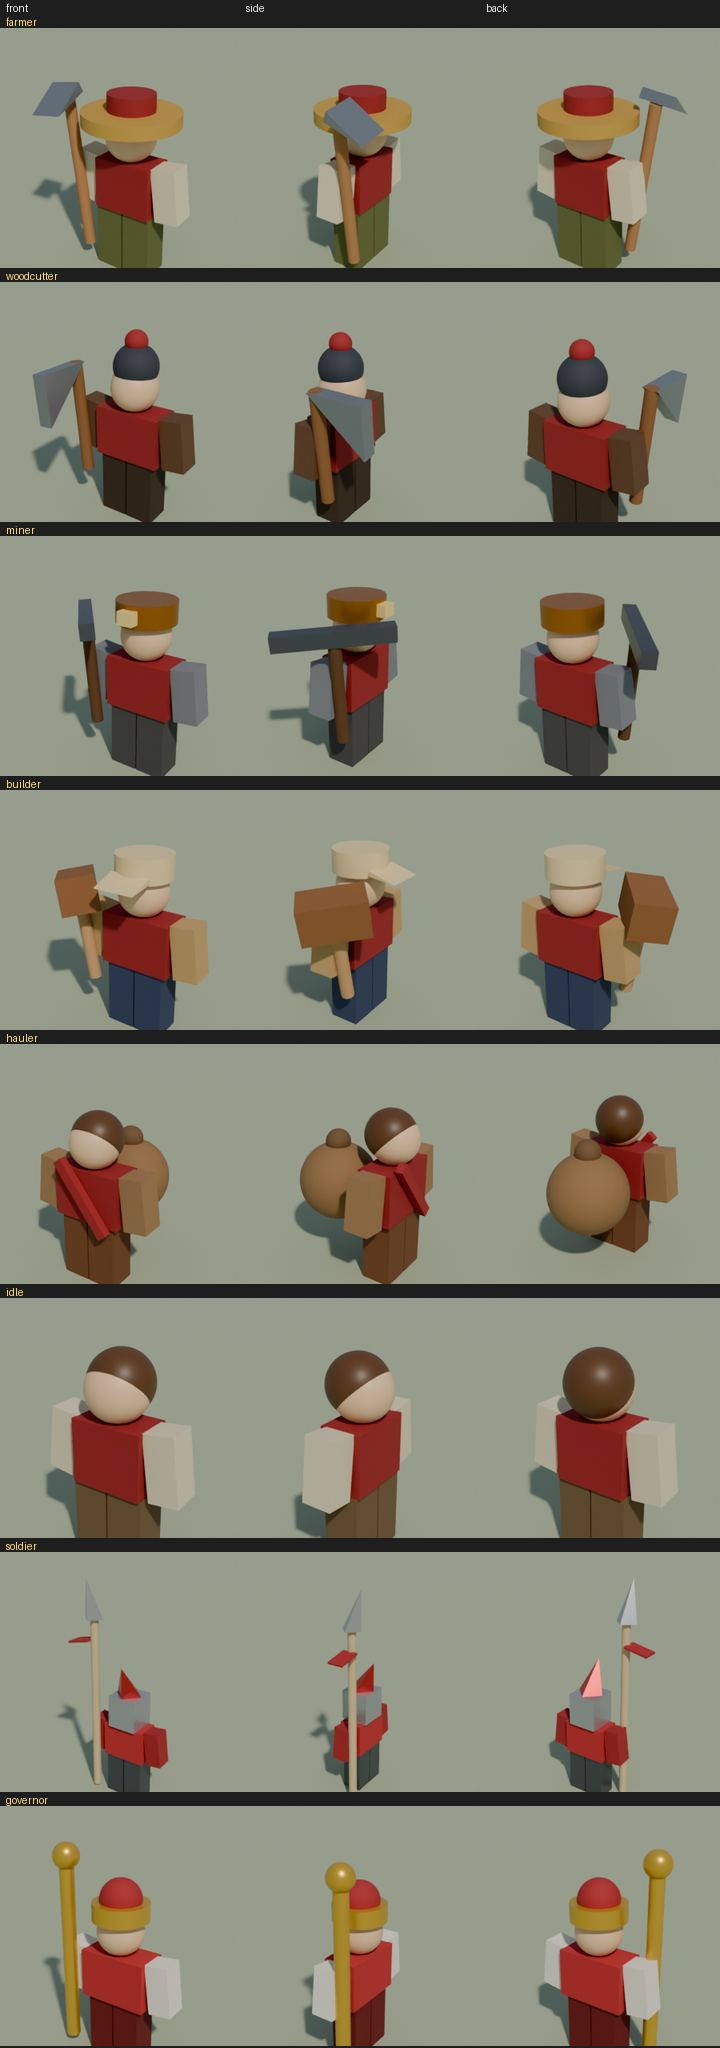
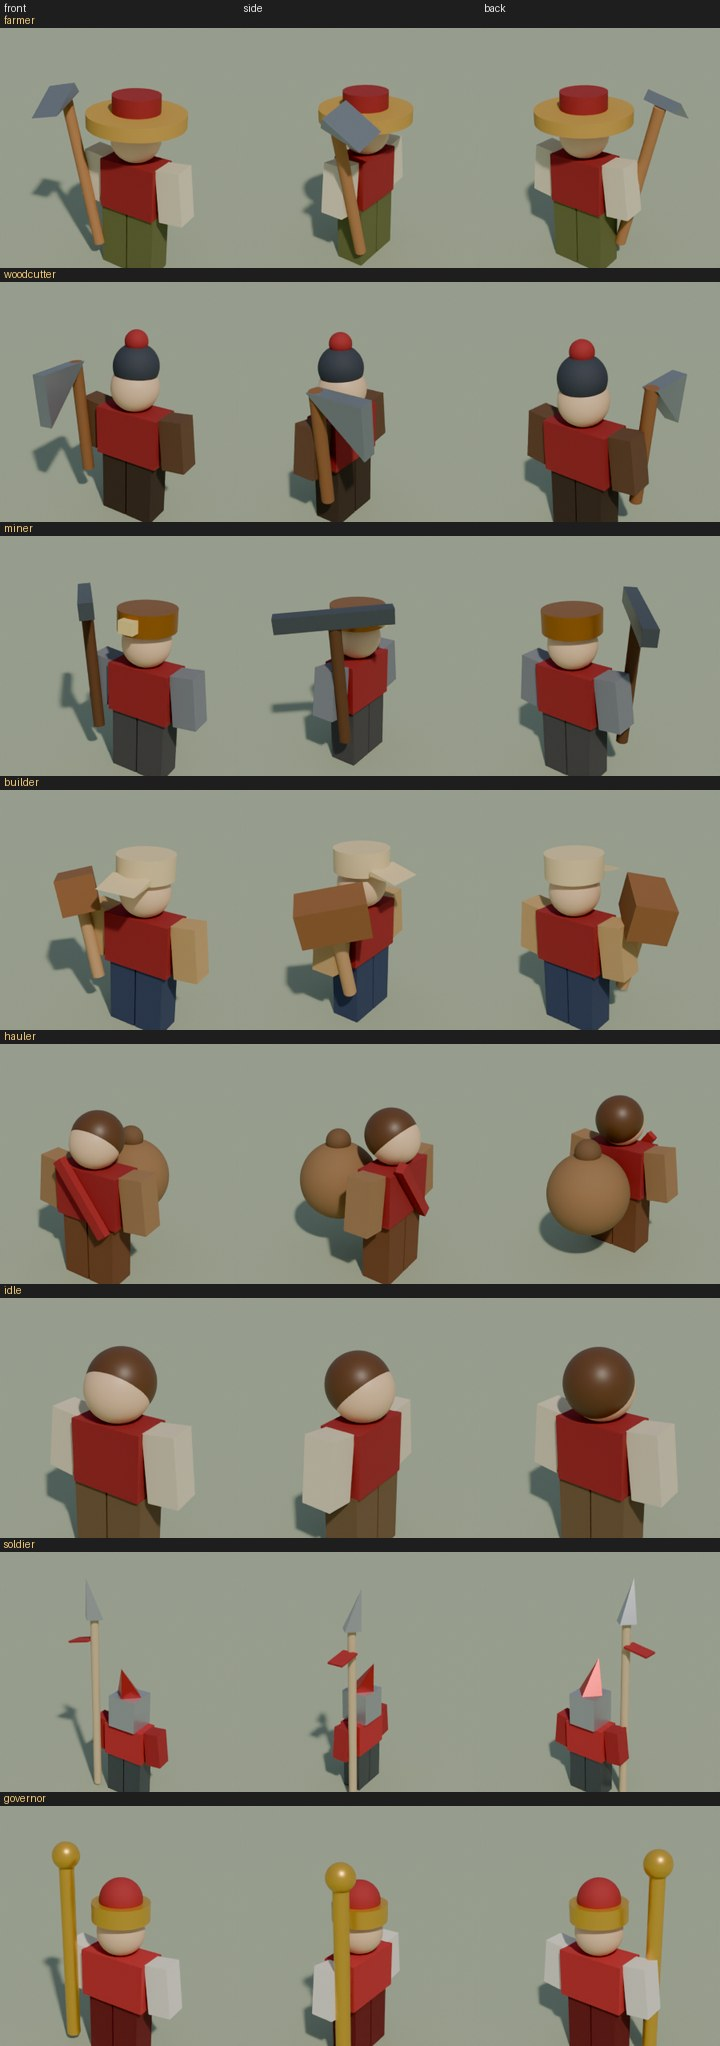
FL-0118 phase 2: tools and heads clear in every Pose action (FORGE-05/FORGE-01 findings), exact clearance spec, re-renders
Kit fix, Pose untouched (main 1d336eb merged): pick handle 4.55 with the bar 0.85 higher, mallet lean 15, hoe lean 14.
KitCharacter.spec: every Tool-welded part against the Head and every Head-welded part, all seven Pose actions
at speeds 0/6/12, three hat rolls, exact shapes at least 0.1 (bounding boxes at least 0.03); 10 mutants killed.
PoseClearance 8/8. Renders citizen_polish2_{jobs,tools,heads,poses}.jpg. Studio unverified.

Claude-Session: https://claude.ai/code/session_01QhAZKvWsRXpSKTGWcY3Eq6

diff --git a/games/game-001/art/reviews/kit-characters.md b/games/game-001/art/reviews/kit-characters.md
@@ -423,10 +423,10 @@ and `KitDetailKind` = the part's name. Nothing new on the wire: they derive from
 (each rig from the front, side and back), `_crowd.jpg` (30 citizens, 50 degrees at 170 studs), `_aerial.jpg` (4 per job, colour and grayscale).
 | Job | Tool (handle, Tool part) | Tool head (detail) | Head detail |
 |---|---|---|---|
-| farmer | 5.2 pale-wood handle | steel hoe blade, angled down | kingdom-red crown over the straw brim |
+| farmer | 5.2 pale-wood handle, leaning out 14 degrees (was 8) | steel hoe blade, angled down | kingdom-red crown over the straw brim |
 | woodcutter | 3.9 haft | bearded steel axe head | kingdom-red pompom on the beanie |
-| miner | 3.7 dark handle | 3.6 double-sided iron bar (T) | lamp on the pot |
-| builder | 3.0 pale handle | fat wooden mallet head | visor: the cream drum becomes a hard hat |
+| miner | 4.55 dark handle (was 3.7) | 3.6 double-sided iron bar (T) at the handle's top, 3.4 above the grip (was 2.55) | lamp on the pot |
+| builder | 3.0 pale handle, leaning out 15 degrees (was 12) | fat wooden mallet head | visor: the cream drum becomes a hard hat |
 | hauler | the sack (Tool) | kingdom-red strap across the chest, the sack's tied neck | none |
 | soldier | 9.0 ash shaft | pale steel spearhead, kingdom pennant | none (crest as before) |
 | governor | 6.4 gold staff | gold orb | kingdom-red velvet cap over the crown disc |
@@ -436,7 +436,7 @@ without a kingdom), governor 11, idle 7 to 9 (was 9, 9, 9, 8-9, 9, 7-9).
   and bar are gone); the builder's paper-like cap is a hard hat (drum + visor) and his hammer differs from the hauler's load; the miner has a
   lamp; the hauler has a strap and a tied sack, so the front view differs from idle; kingdom red shows on top of every working rig (crown,
   pompom, pennant, strap, velvet cap): kingdom-red pixels in the 30-citizen crowd crop 443 (phase 1b) to 461 (main 420).
-- **Rules and specs.** `KitCharacter.spec` 49 tests (45 before): parts at most 11 with at most 2 detail parts and a base rig of at most 9; every
+- **Rules and specs.** `KitCharacter.spec` 51 tests (49 at the first push, 45 before): parts at most 11 with at most 2 detail parts and a base rig of at most 9; every
   detail flagged, named, welded rigidly to the Head or the Tool, never a Motor6D, flags like the other parts; `Pose.JOINTS` and every Motor6D
   name unchanged and no joint to a detail; the exact two details per job (kind, weld target); head details above the eyes and following the
   hat's tilt; tool heads and handles clear the head sphere by 0.1 in idle, walk, work, carry, fight and flee. `KitPortrait.spec` and
@@ -478,3 +478,37 @@ crowd crop, main 420); the soldier's red crest still reads as a separate cone on
   and an idle silhouette feature are either another art pass or a different approach (tool meshes via Kit.prop ids / VS-2, per-look
   proportions). They are reported and left for FORGE-00 to schedule or accept under D-051 (no worse than main per asset, clearly better as a
   set, no visible defects, code gates pass); no further loop on this branch.
+
+### FL-0118 phase 2: tool and head clearance in every Pose action (FORGE-05 / FORGE-01 findings)
+
+Pose constants are not relaxed (FORGE-04/01's); the fix is in the Kit. Pose is main's (`1d336eb`: #154 plus #158, tool arm 55 degrees, tool
+tipped 40 back and 20 out), merged into this branch; its `tests/sim/PoseClearance.spec` (FORGE-01's exact-shape probe) passes on the new rigs
+(8 of 8; it failed before on miner walk: -0.07 against the hat).
+- **Measured with a scratch probe** (`KitCharacter.spec` now carries the same measure): every part welded to the Tool (handle, hoe blade, pick bar,
+  mallet, spearhead, strap, tie, orb ...) against the Head and every part welded to the Head (hat, lamp, visor, pompom, crown, velvet cap),
+  all seven Pose actions (idle, walk, work, carry, fight, flee, celebrate; walk, carry and flee at speeds 0, 6, 12; 24 phases a cycle), the
+  three hat rolls (look.hair 1 to 3: 0, +9, -9 degrees). Exact shapes (Block and Wedge as boxes by the separating axis, Ball and Cylinder
+  exactly), plus a second pass on bounding boxes (a Ball as its cube).
+- **Before the fix** (same measure): miner pick bar against the pot -0.19 (work), -0.14 (fight), -0.07 (walk) exact and -0.38 on the pot's bounding
+  box; against the head cube -0.05 (flee); builder mallet against the cap 0.045 to 0.058 (work); farmer hoe handle against the straw brim 0.04
+  (flee, hat rolled) and -0.17 on the disc's box. Celebrate was not a problem on main's Pose: the closest tool-to-hat pair there was 0.34
+  (bounding boxes), so FORGE-05's celebrate sinks (mallet into the head 0.111, miner pick into the lamp -0.086) did not reproduce with #158's cheer
+  merged; they were presumably measured against #154's cheer.
+- **Kit changes** (still 11 parts, `Pose.JOINTS` and the wire unchanged): the pick's handle is 4.55 long and the bar sits 0.85 higher on it, so it swings
+  over the pot instead of through it; the mallet leans out 15 degrees (was 12) and the hoe 14 (was 8). Bar size, bar yaw (40), mallet, blade,
+  lamp and visor are unchanged.
+- **After** (min over rigs, looks, actions and speeds; exact / bounding boxes): miner pick bar against the pot 0.277 / 0.053, against the head
+  0.954 / 0.370, against the lamp 0.372 / 0.372; builder mallet against the cap 0.150 / 0.142, against the head 0.197 / 0.195, against the visor
+  0.376 / 0.376; farmer hoe against the hat 0.267 / 0.042; woodcutter 0.703 / 0.598; soldier 0.556 / 0.448; governor 0.502 / 0.338; hauler (ball
+  sack, exact only) 0.138. In celebrate alone: mallet against the head 0.904, the visor 0.511, the cap 0.647; pick bar against the head 1.563, the lamp
+  0.798, the pot 0.905.
+- **Spec:** `KitCharacter.spec` (51 tests) asserts exact clearance of at least 0.1 and, for the held tools (the hauler's ball sack excepted),
+  bounding-box clearance of at least 0.03 for every tool part against every head part in all seven actions; the sack-and-tool tests now
+  include celebrate. 10 mutants (the old pick, the old mallet lean, the old hoe lean, the grip moved in, a wider pot, the sack raised, the pick bar
+  lowered, a huge orb, the lamp and the visor moved into reach) are all killed, three of them (old pick, mallet, hoe) only by the new test.
+- **Renders** (looked at, Blender previews, Studio unverified): `citizen_polish2_jobs.jpg` and `_tools.jpg` and `_heads.jpg` re-rendered after the fix;
+  `_poses.jpg` (new): miner work, celebrate and flee, builder work, celebrate and fight, farmer work and celebrate, front and side: the
+  tool is held beside the head, the cap and the pot sit clear of it, a cheer still reads. In side projection the pick bar and the mallet overlap the
+  hat and the head on screen, in space they are 0.15 or more away. From the 3/4 tool view and at 40 studs the miner's pick reads as a
+  small hammer-like T; it reads as a pick in the side, work and celebrate views. `_crowd.jpg` and `_aerial.jpg` were not re-rendered (the pick is a
+  few pixels there) and still show the earlier, lower pick bar.

diff --git a/production/tasks/FL-0118-citizen-job-silhouettes-clothing-and-tools-d-048.md b/production/tasks/FL-0118-citizen-job-silhouettes-clothing-and-tools-d-048.md
@@ -47,4 +47,5 @@ Visual: D-019 aerial and close-up renders, fresh-context reviewer PASS. Automate
 - 2026-10-15 forge-02: phase 1b after 2 author rounds and 2 fresh image-only re-scores: rig set NEEDS-WORK (soldier and governor PASS; variation 2-3, tool readability, hauler front read still below threshold). Stopped per the 2-round rule; tools, hauler strap, builder hard hat and miner lamp go to Phase 2 (D-048, own stacked branch). Status stays REVIEW (D-051).
 - 2026-10-15 forge-02: phase 2 on forge/02-blender-citizen-phase2 (stacked on phase 1b): D-048 11-part rigs, each tool a handle plus a head detail, two KitDetail parts per working rig, hauler strap and tie, builder hard hat, miner lamp, spearhead, kingdom-red crown, pompom, pennant, strap and velvet cap; specs and 18 killed mutants; renders `citizen_polish2_*.jpg`. Status stays REVIEW (D-051).
 - 2026-10-15 forge-02: phase 2 fresh image-only D-019 re-score (one round): rig set NEEDS-WORK. Soldier and governor PASS; farmer, woodcutter, builder miss only variation (3); miner and hauler 3 on silhouette, variation and readability; idle detail 2. Kingdom red visible from above (461 px, main 420). Remaining items need another art approach (variation beyond hat tone, miner head, front-readable hauler load, idle feature), not more 11-part tool work; left for FORGE-00 under D-051. Table in `art/reviews/kit-characters.md`. Status stays REVIEW.
+- 2026-10-15 forge-02: phase 2 clearance fix (FORGE-05/FORGE-01 findings, Pose not relaxed; main 1d336eb merged): pick handle 4.55 with the bar 0.85 higher, mallet lean 15, hoe lean 14. New KitCharacter clearance spec: every Tool-welded part against the Head and every Head-welded part, all 7 Pose actions at speeds 0/6/12, 3 hat rolls, exact shapes at least 0.1 (bounding boxes at least 0.03); 10 mutants killed; PoseClearance passes 8/8. Minima: miner pick against the pot 0.277 exact, builder mallet against the cap 0.150. Renders `citizen_polish2_{jobs,tools,heads,poses}.jpg`. Studio unverified. Status stays REVIEW.
 

diff --git a/games/game-001/art/ART_DIRECTION.md b/games/game-001/art/ART_DIRECTION.md
@@ -78,7 +78,7 @@ It must read at RTS-ish camera distances and on phones. Nothing shown to players
   |---|---|---|---|---|
   | farmer | wide flat straw disc, 3.1, with a kingdom-red crown (`strawhat`) | 5.2 handle with a steel blade at its top (hoe) | olive / cream | 1.95 lean |
   | woodcutter | small charcoal knit beanie, a 1.5 ball sitting high, with a kingdom-red pompom (`knitcap`) | 3.9 haft with a bearded steel head (axe) | black-brown / umber | 2.3 stocky |
-  | miner | small dark-ochre iron pot, 1.9, with a lamp (`hardhat`) | 3.7 handle with a 3.6 double-sided iron bar (pick) | coal / soot grey | 2.2 |
+  | miner | small dark-ochre iron pot, 1.9, with a lamp (`hardhat`) | 4.55 handle with a 3.6 double-sided iron bar (pick) | coal / soot grey | 2.2 |
   | builder | cream hard hat: a squat drum that sits on the head with a visor (`buildercap`) | 3.0 handle with a fat wooden mallet head (hammer) | dusty navy / tan canvas | 2.3 |
   | hauler | none: the look's hair | sackcloth sack 2.7, low on the back, with a tied neck and a kingdom-red strap across the chest | russet / sackcloth | 2.3 |
   | idle | the look's hair, plus a headband or scarf on about two looks in three (`Accessory`, the free 9th part) | nothing | the outfit's own | 1.9 lean |
